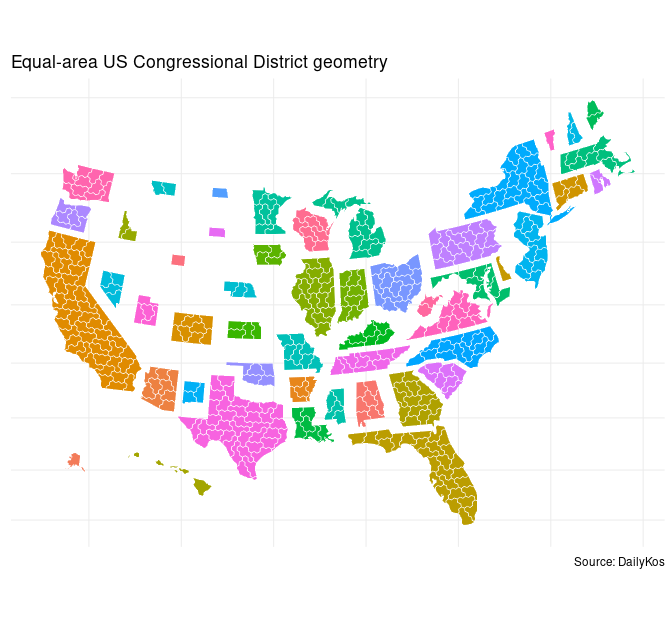
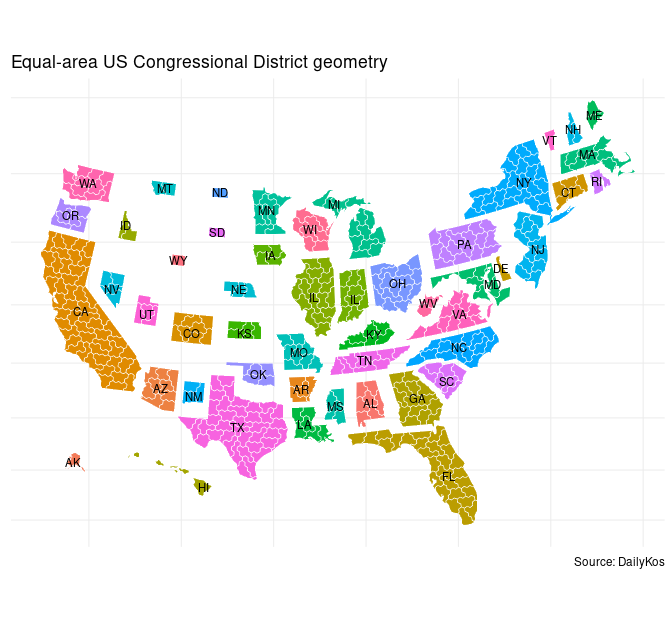
re

diff --git a/README.md b/README.md
@@ -103,11 +103,12 @@ PresElectionResults::xsf_HexCDv30wm |>
   geom_sf(aes(fill = state),
           color = 'white') +
 
-  # ggsflabel::geom_sf_text(data = xsf_HexCDv30,
-  #                         aes(label = state_abbrev), 
-  #                         size = 3,
-  #                         color='black') +
-  # scale_fill_distiller(palette = "RdBu", direction=-1) +
+  ggsflabel::geom_sf_text(data = PresElectionResults::xsf_HexSTv30wm,
+                          aes(label = state_abbrev),
+                          size = 3,
+                          color='black') +
+  
+  ## scale_fill_distiller(palette = "RdBu", direction=-1) +
   theme_minimal()+
   theme(axis.text.x=element_blank(),
         axis.text.y=element_blank(),
